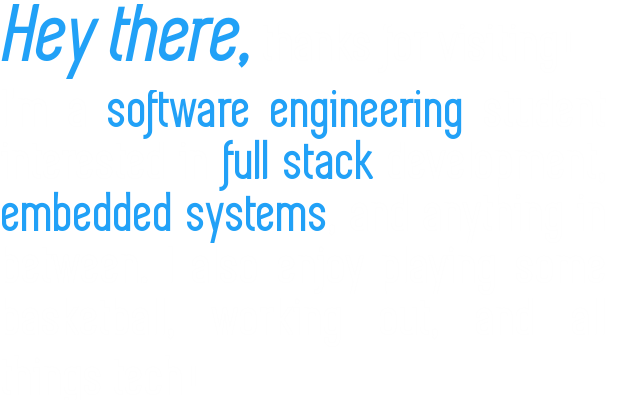
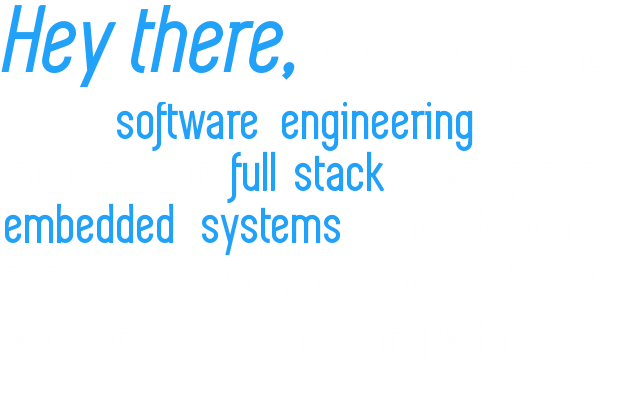
Added additional jQuery animations and updated formatting

Changed region(s): [[0.0, 0.21, 0.75, 0.63], [0.0, 0.0, 0.4688, 0.21]]

diff --git a/index.html b/index.html
@@ -22,16 +22,17 @@
 
         </script>
         
-        <div id="MainPage">
+        <div id="Main-page">
+        <div id="Main-content">
             <div id="Name">
                 <img src="Name.png" style="display: block; width: 80%; height: auto; margin: auto auto;">
             </div>
 
             <div id="Photo">
-                <img src="Photo.jpg" style="display: block; position: absolute; width: 95%; height: auto; z-index: 2; opacity: 0.9;">            
+                <img src="Photo.jpg" id="Photo-img" style="display: block; position: absolute; width: 95%; height: auto; z-index: 2; opacity: 0.9;">            
                     
                 <div class="box" style="margin-top: -2.5%; margin-left: -2.5%">
-                    <div class="medium-shadow"></div>
+                    <div id="Photo-shadow" class="medium-shadow"></div>
                 </div>
             </div>
 
@@ -41,34 +42,85 @@
             
             <div id="LinkedIn">
                 <a href="https://www.linkedin.com/in/bob-w-433b39116/" target="_blank">
-                    <img src="Linkedin.png" style="display: block; position: absolute; width: 70%; height: auto; z-index: 2;">
+                    <img id="LinkedIn-img" src="Linkedin.png" style="display: block; position: absolute; width: 70%; height: auto; z-index: 2;">
                 </a>
 
                 <div class="box" style="margin-top: -15%; margin-left: -15%;">
-                    <div class="small-shadow"></div>
+                    <div class="small-shadow" id="LinkedIn-shadow"></div>
                 </div>
             </div>
 
             <div id="Resume">
                 <a href="https://bobqywei.github.io/Resume/" target="_blank">
-                    <img src="Resume.png" style="display: block; position: absolute; width: 80%; height: auto; z-index: 2;">
+                    <img id="Resume-img" src="Resume.png" style="display: block; position: absolute; width: 80%; height: auto; z-index: 2;">
                 </a>
 
                 <div class="box" style="margin-top: -7%; margin-left: -7%;">
-                    <div class="xsmall-shadow"></div>
+                    <div class="xsmall-shadow" id="Resume-shadow"></div>
                 </div>
             </div>
 
             <div id="GitHub">
                 <a href="https://github.com/bobqywei" target="_blank">
-                    <img src="GitHub.png" style="display: block; position: absolute; width: 70%; height: auto; z-index: 2;">
+                    <img id="GitHub-img" src="GitHub.png" style="display: block; position: absolute; width: 70%; height: auto; z-index: 2;">
                 </a>
 
                 <div class="box" style="margin-top: -16%; margin-left: -15%;">
-                    <div class="small-shadow"></div>
+                    <div class="small-shadow" id="GitHub-shadow"></div>
                 </div>
             </div>
+
+            <script>
+
+                $('#LinkedIn').hover(function(){
+                    $('#LinkedIn-shadow').animate({left: '0%', top: '0%'}, 500);
+                    $('#LinkedIn-img').animate({opacity: '0.6'}, 200);
+                }, function(){
+                    $('#LinkedIn-shadow').animate({left: '16%', top: '16%'}, 200);
+                    $('#LinkedIn-img').animate({opacity: '1.0'}, 200);
+                });
+
+                $('#GitHub').hover(function(){
+                    $('#GitHub-shadow').animate({left: '0%', top: '0%'}, 500);
+                    $('#GitHub-img').animate({opacity: '0.6'}, 200);
+                }, function(){
+                    $('#GitHub-shadow').animate({left: '16%', top: '16%'}, 500);
+                    $('#GitHub-img').animate({opacity: '1.0'}, 200);
+                });
+
+                $('#Resume').hover(function(){
+                    $('#Resume-shadow').animate({left: '0%', top: '0%'}, 500);
+                    $('#Resume-img').animate({opacity: '0.6'}, 200);
+                }, function(){
+                    $('#Resume-shadow').animate({left: '20%', top: '20%'}, 200);
+                    $('#Resume-img').animate({opacity: '1.0'}, 200);
+                });
+
+                $('#Photo').hover(function(){
+                    $('#Photo-shadow').animate({left: '0%', top: '0%'}, 500);
+                    $('#Photo-img').animate({opacity: '0.6'}, 200);
+                }, function(){
+                    $('#Photo-shadow').animate({left: '10%', top: '10%'}, 200);
+                    $('#Photo-img').animate({opacity: '1.0'}, 200);
+                });
+
+                $('#Description').hover(function(){
+                    $('#Description').animate({opacity: '0.7'}, 200);
+                }, function(){
+                    $('#Description').animate({opacity: '1.0'}, 200);
+                });
+
+            </script>
+        </div>
+        </div>
+
+        <div id="Project-page">
+            Hello World
         </div>
 
     </body>
+
+    <footer>
+        <script src="main.js"></script>
+    </footer>
 </html>

diff --git a/main.css b/main.css
@@ -24,16 +24,27 @@ body{
     width: 100%;
     height: 100%;
     box-sizing: border-box;
+    
     -webkit-animation: slide 20s linear infinite;
     -moz-animation: slide 20s linear infinite;
     -o-animation: slide 20s linear infinite;
     animation: slide 20s linear infinite;
 }
 
-#MainPage{
+#Main-page{
+    width: 100%;
+    height: 100vh;
+    position: absolute;
+}
+
+#Main-content{
     position: absolute;
     width: 100%;
     padding-bottom: 48%;
+
+    top: 50%;  /* position the top  edge of the element at the middle of the parent */
+    left: 50%; /* position the left edge of the element at the middle of the parent */
+    transform: translate(-50%, -50%); /* Moves 50% of element itself */
 }
 
 #Name{
@@ -54,16 +65,16 @@ body{
 
 #Description{
     position: absolute;
-    width: 25%;
-    left: 10%;
+    width: 29%;
+    left: 7%;
     top: 56%;
 }
 
 #LinkedIn{
     position: absolute;
     width: 10%;
-    left: 19%;
-    top: 25%;
+    left: 17%;
+    top: 27%;
 }
 
 #Resume{
@@ -78,6 +89,12 @@ body{
     width: 10%;
     left: 75%;
     top: 64%;
+}
+
+#Project-page{
+    position: absolute;
+    width: 100%;
+    top: 100%;
 }
 
 .box{
@@ -113,16 +130,6 @@ body{
     height: 100%;
     left: 10%;
     top: 10%;
-    background: rgb(33, 161, 247);
-    z-index: -1;
-}
-
-.large-shadow{
-    position: absolute;
-    width: 100%;
-    height: 100%;
-    left: 8%;
-    top: 6%;
     background: rgb(33, 161, 247);
     z-index: -1;
 }
